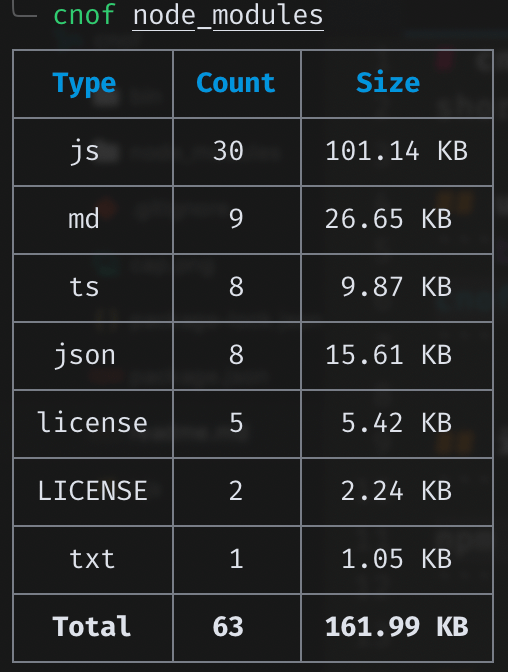
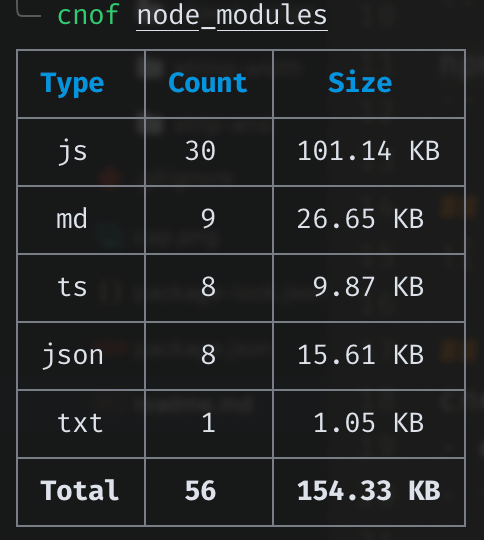
some notice && extension tolowercase

Changed region(s): [[0.0, 0.0, 0.9917, 1.0], [0.0, 0.0, 0.062, 0.0296]]

diff --git a/readme.md b/readme.md
@@ -12,4 +12,11 @@ npm i -g cnof
 ```
 
 ## capture
-![](https://i.loli.net/2020/05/26/RDnmNOwFybv9heg.png)
+![](https://fffast.oss-cn-hongkong.aliyuncs.com/1590641102838.png)
+
+## notice
+cnof will ignore:  
+- directory which starts with `.`, like .git
+- file which does not contains `.`, like LICENSE, README, etc
+
+Also, cnof will call `.toLowerCase()` to file extension name, which makes `PNG -> png`
